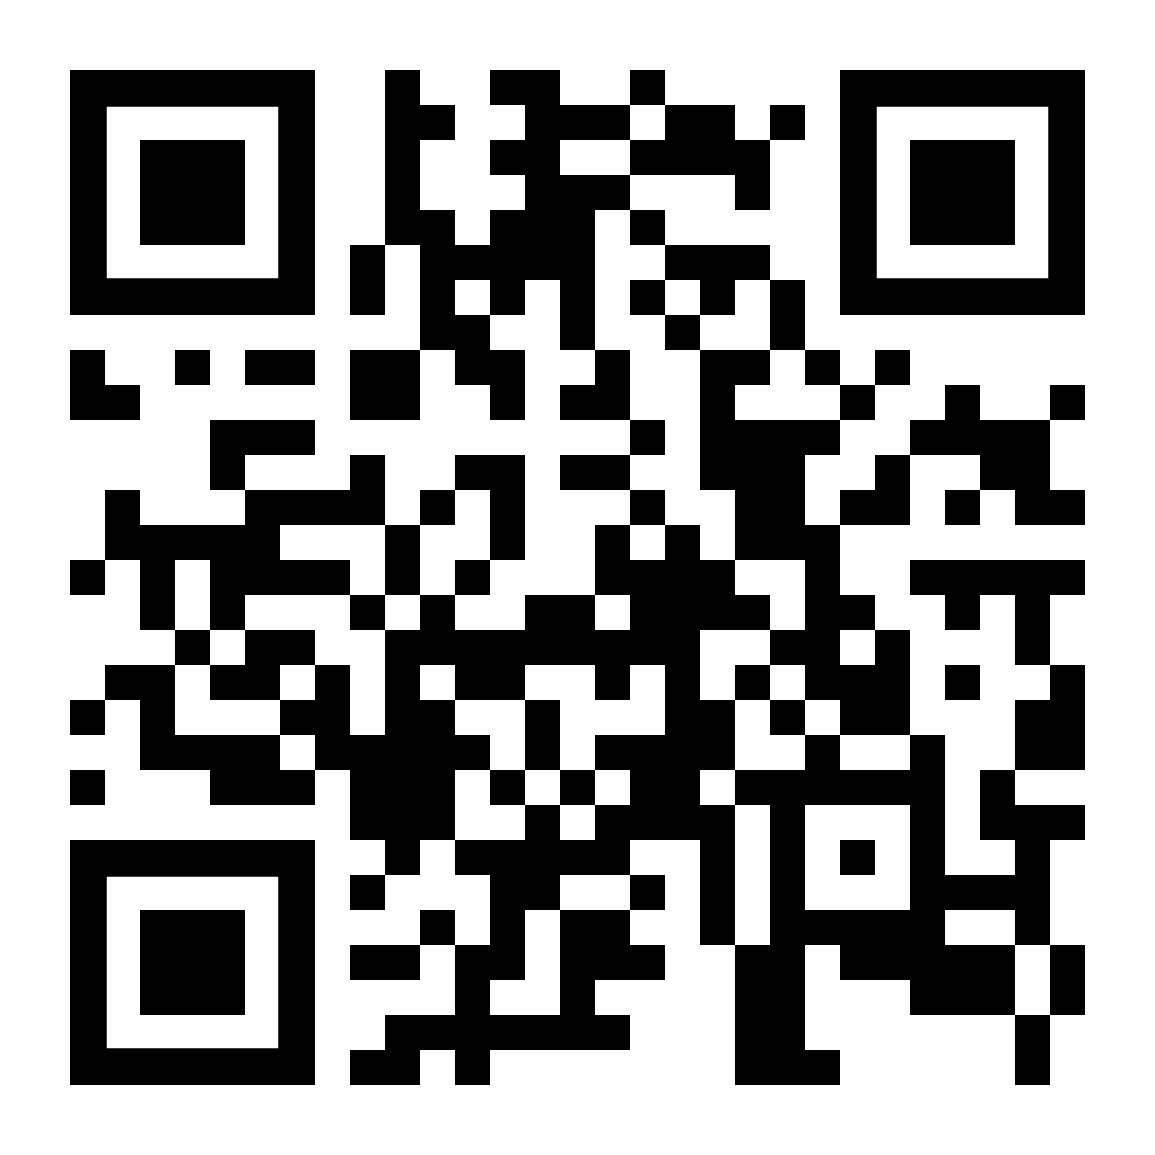
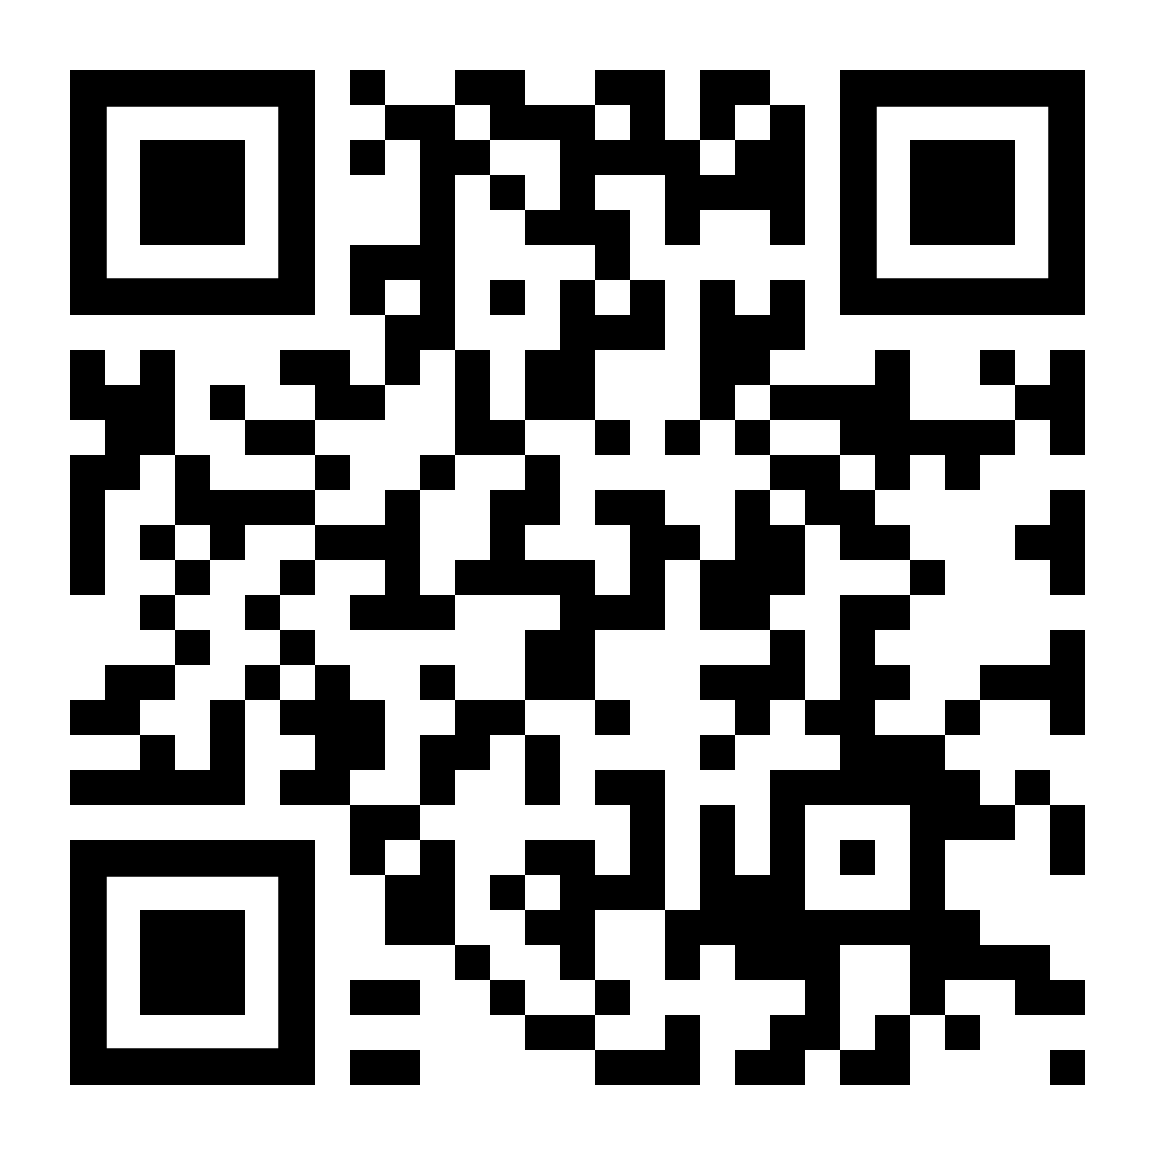
viscosity slides up

Changed region(s): [[0.0623, 0.0623, 0.9662, 0.9662]]

diff --git a/FS2006_9.html b/FS2006_9.html
@@ -68,7 +68,7 @@
 			<section data-background-color="#000000">
 				<p> Link to <b>video</b> below:
 					<br>
-					<a href="https://youtu.be/xHh-cT69AkQ">👉<i>https://youtu.be/xHh-cT69AkQ</i></a>
+					<a href="https://youtu.be/ijuV9Mq4kws">👉<i>https://youtu.be/ijuV9Mq4kws</i></a>
 				</p>
 
 				<img title="Scan me with your phone!" src="img/qr_fs2006_9yt.png" alt="if you don't see a QR code click the link" style="height: 340px; margin: 0 auto 4rem auto; background: transparent;" class="qr_code">

diff --git a/index.md b/index.md
@@ -73,7 +73,7 @@ Lecture#7: [Hydrostatics II](http://edibotopic.github.io/lecture-slides/FS2006_8
 
 <!-- Lecture#7: [Intermission: Excel Basics](http://edibotopic.github.io/lecture-slides/FS2006_7.html) -->
 
-<!-- Lecture#9: [Hydrodynamics I](http://edibotopic.github.io/lecture-slides/FS2006_9.html) -->
+Lecture#9: [Hydrodynamics I](http://edibotopic.github.io/lecture-slides/FS2006_9.html)
 
 <!-- Lecture#10: [Hydrodynamics II](http://edibotopic.github.io/lecture-slides/FS2006_10.html) -->
 
